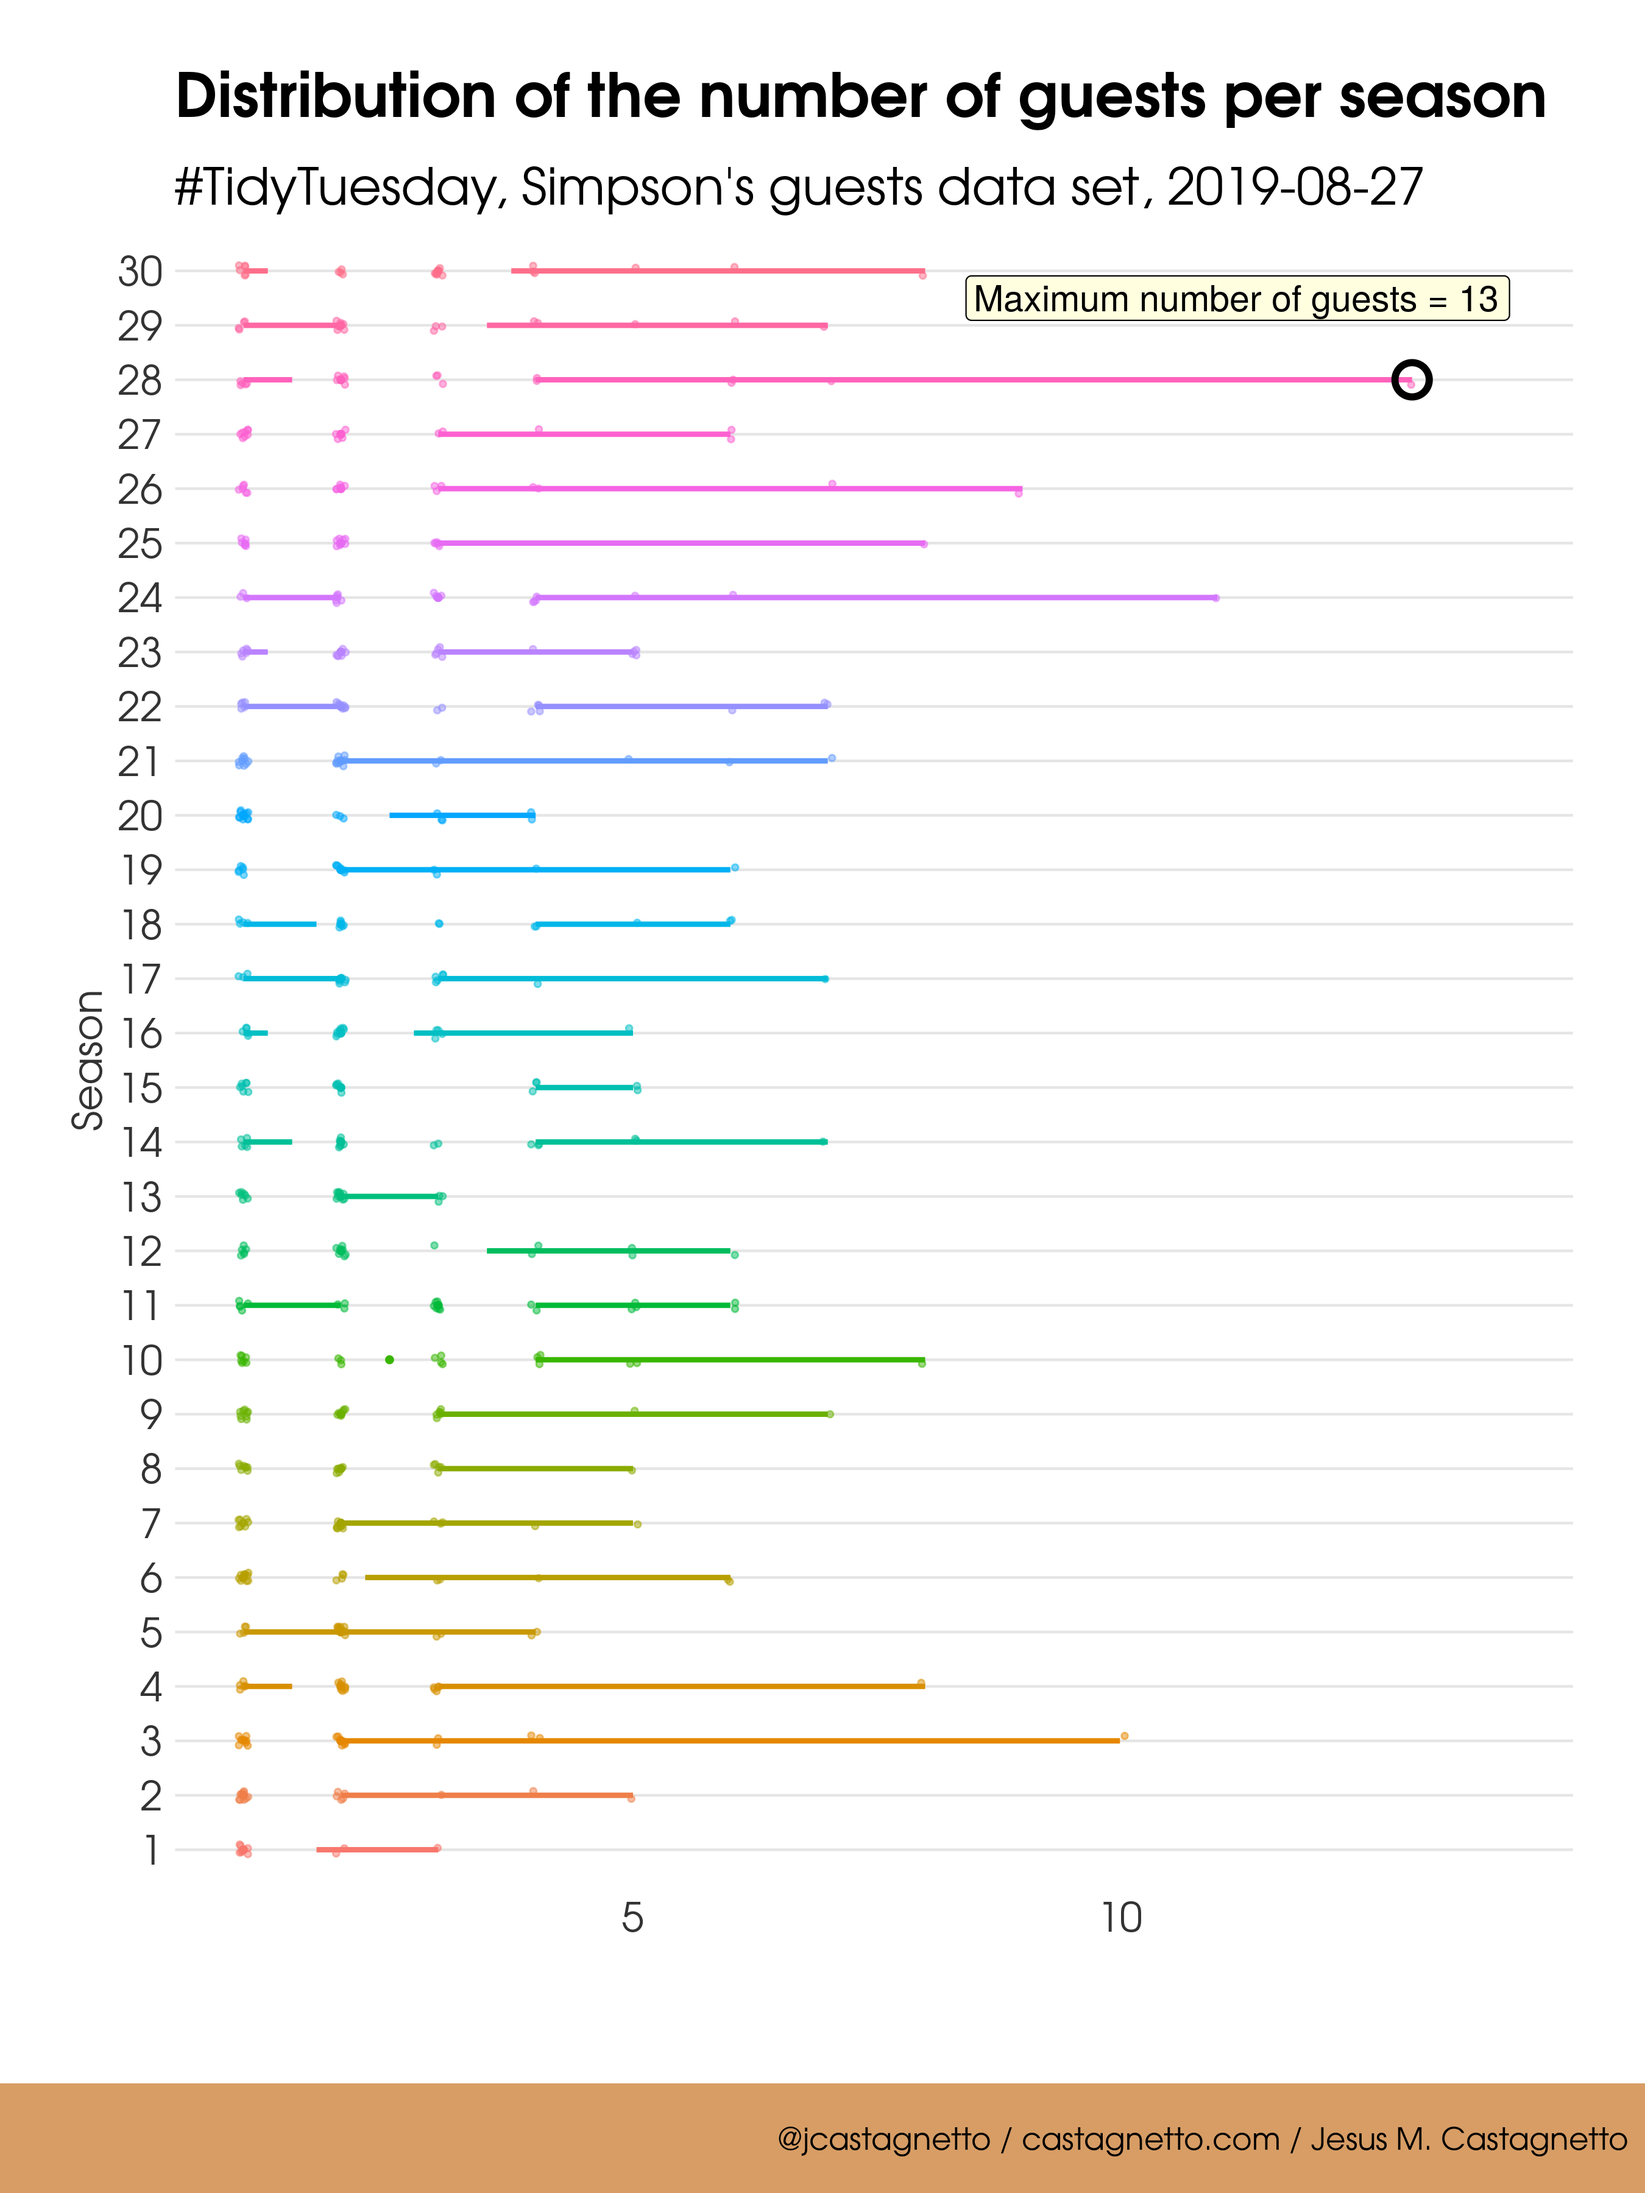
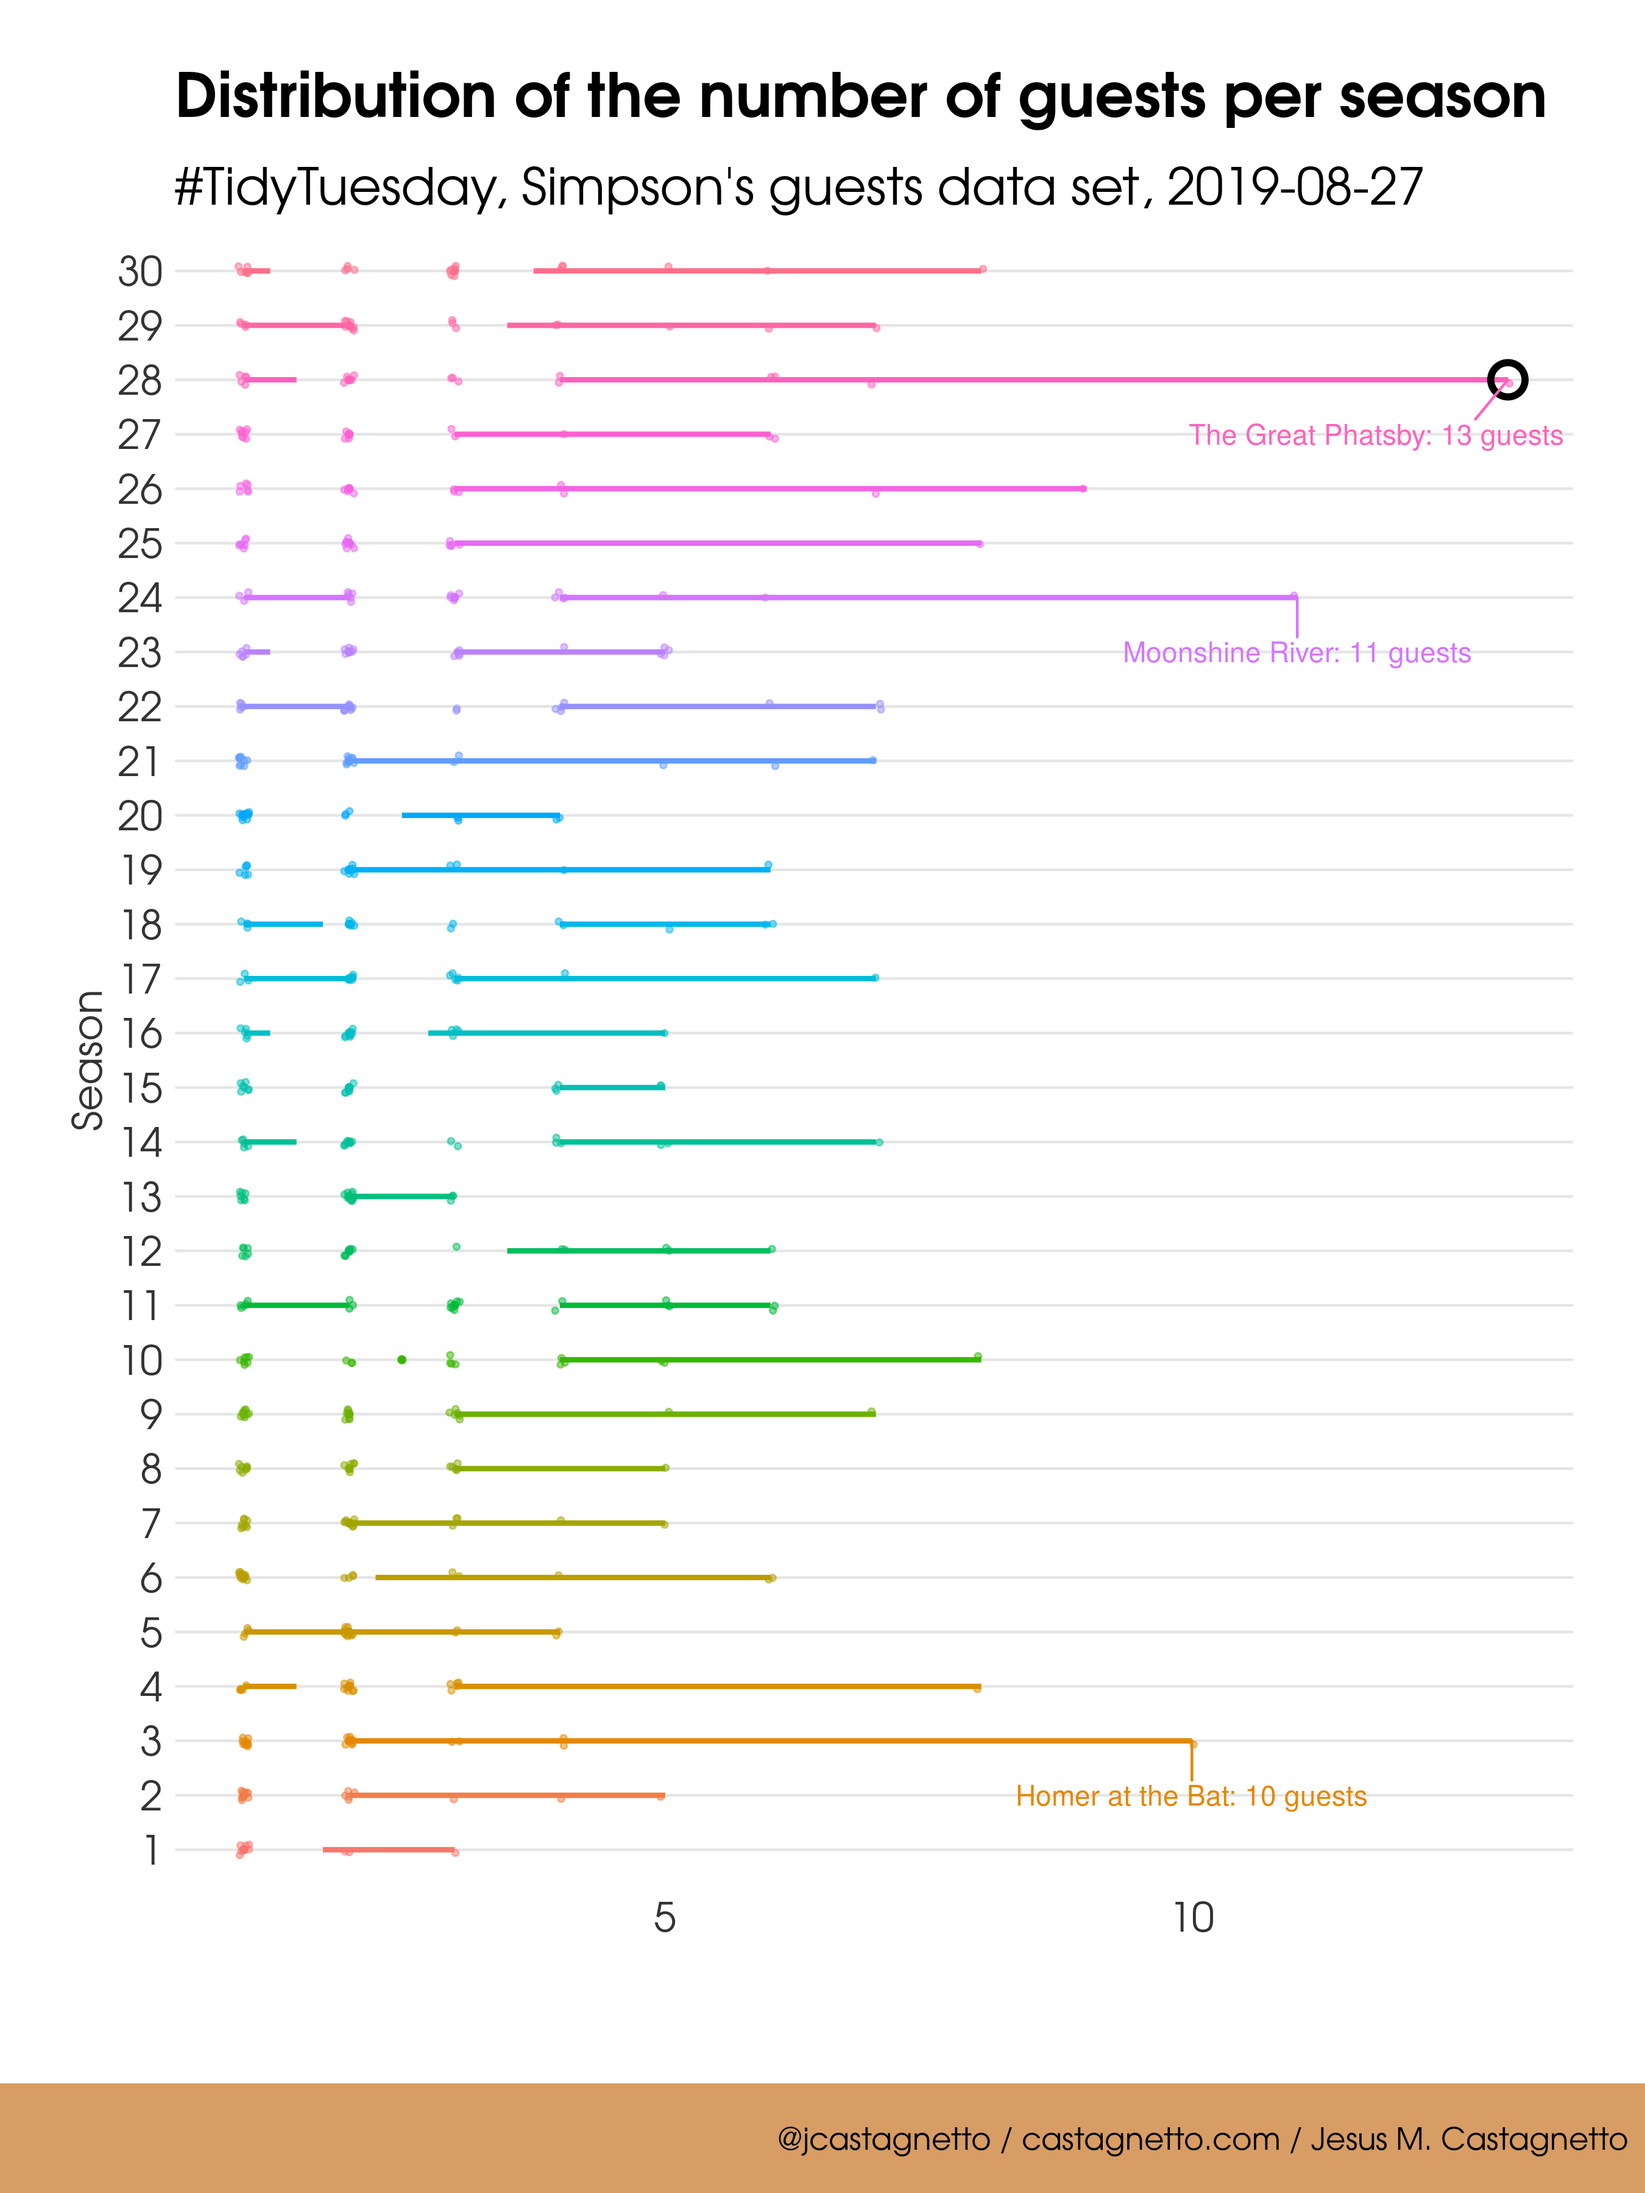
fixed plots and documentation

diff --git a/_posts/2019-08-27-simpsons-guests.md b/_posts/2019-08-27-simpsons-guests.md
@@ -8,11 +8,7 @@ categories: [tidytuesday, R]
 
 Used the [Simpons guest dataset](https://github.com/rfordatascience/tidytuesday/tree/master/data/2019/2019-08-27) from the [TidyTuesday](https://github.com/rfordatascience/tidytuesday/) project.
 
-First, I looked at the distribution of the number of *unique guests* per season and episode, and overall seems like in "The Simpsons" they like to have guests in small group: 2 to 4 at a time, with 3 being the most frequent number:
-
-![Overall guests distribution](/tidytuesday-kludges/assets/2019-08-27-simpsons-guests/guests-in-groups.png)
-
-And that is pretty consistent over the seasons, with one episode ("The Great Phatsby", Season 28) where there were 13 guests. There were two more episodes with 10 or more guests: "Moonshine River" (Season 24, 11 guests) and "Homer at the Bat" (Season 3, 10 guests)
+First, I looked at the distribution of the number of *unique guests* per season and episode, and overall seems like in "The Simpsons" they like to have guests in small groups, although occasionally the groups can be bigger. This is pretty consistent over the seasons, with one episode ("The Great Phatsby", Season 28) where there were 13 guests. There were two more episodes with 10 or more guests: "Moonshine River" (Season 24, 11 guests) and "Homer at the Bat" (Season 3, 10 guests)
 
 ![Distribution of the number of guests over the seasons](/tidytuesday-kludges/assets/2019-08-27-simpsons-guests/tufte-boxplot.png)
 
@@ -22,7 +18,10 @@ Then, I grouped the guests by when they appear concurrently in an episode, and u
 
 ![Network of guests showing clusters](/tidytuesday-kludges/assets/2019-08-27-simpsons-guests/guests-network.png)
 
-Using the network, found that the longest distance between two guests is 7, so is "The Simpsons 7 degrees of separation".
+Using the network, found that the longest distance between two guests is 7, so is "The Simpsons 7 degrees of separation". But the most frequent distance is 3, and a great majority are related by 2 to 4 steps.
+
+![Overall distribution of distances between guests](/tidytuesday-kludges/assets/2019-08-27-simpsons-guests/guests-in-groups.png)
+
 
 Made the network into an interactive graph using [visNetwork](https://datastorm-open.github.io/visNetwork/). You can use the dropdown to pick a guest, "Marcia Wallace" is important in this network, because she has a lot of connections to other guests.
 
